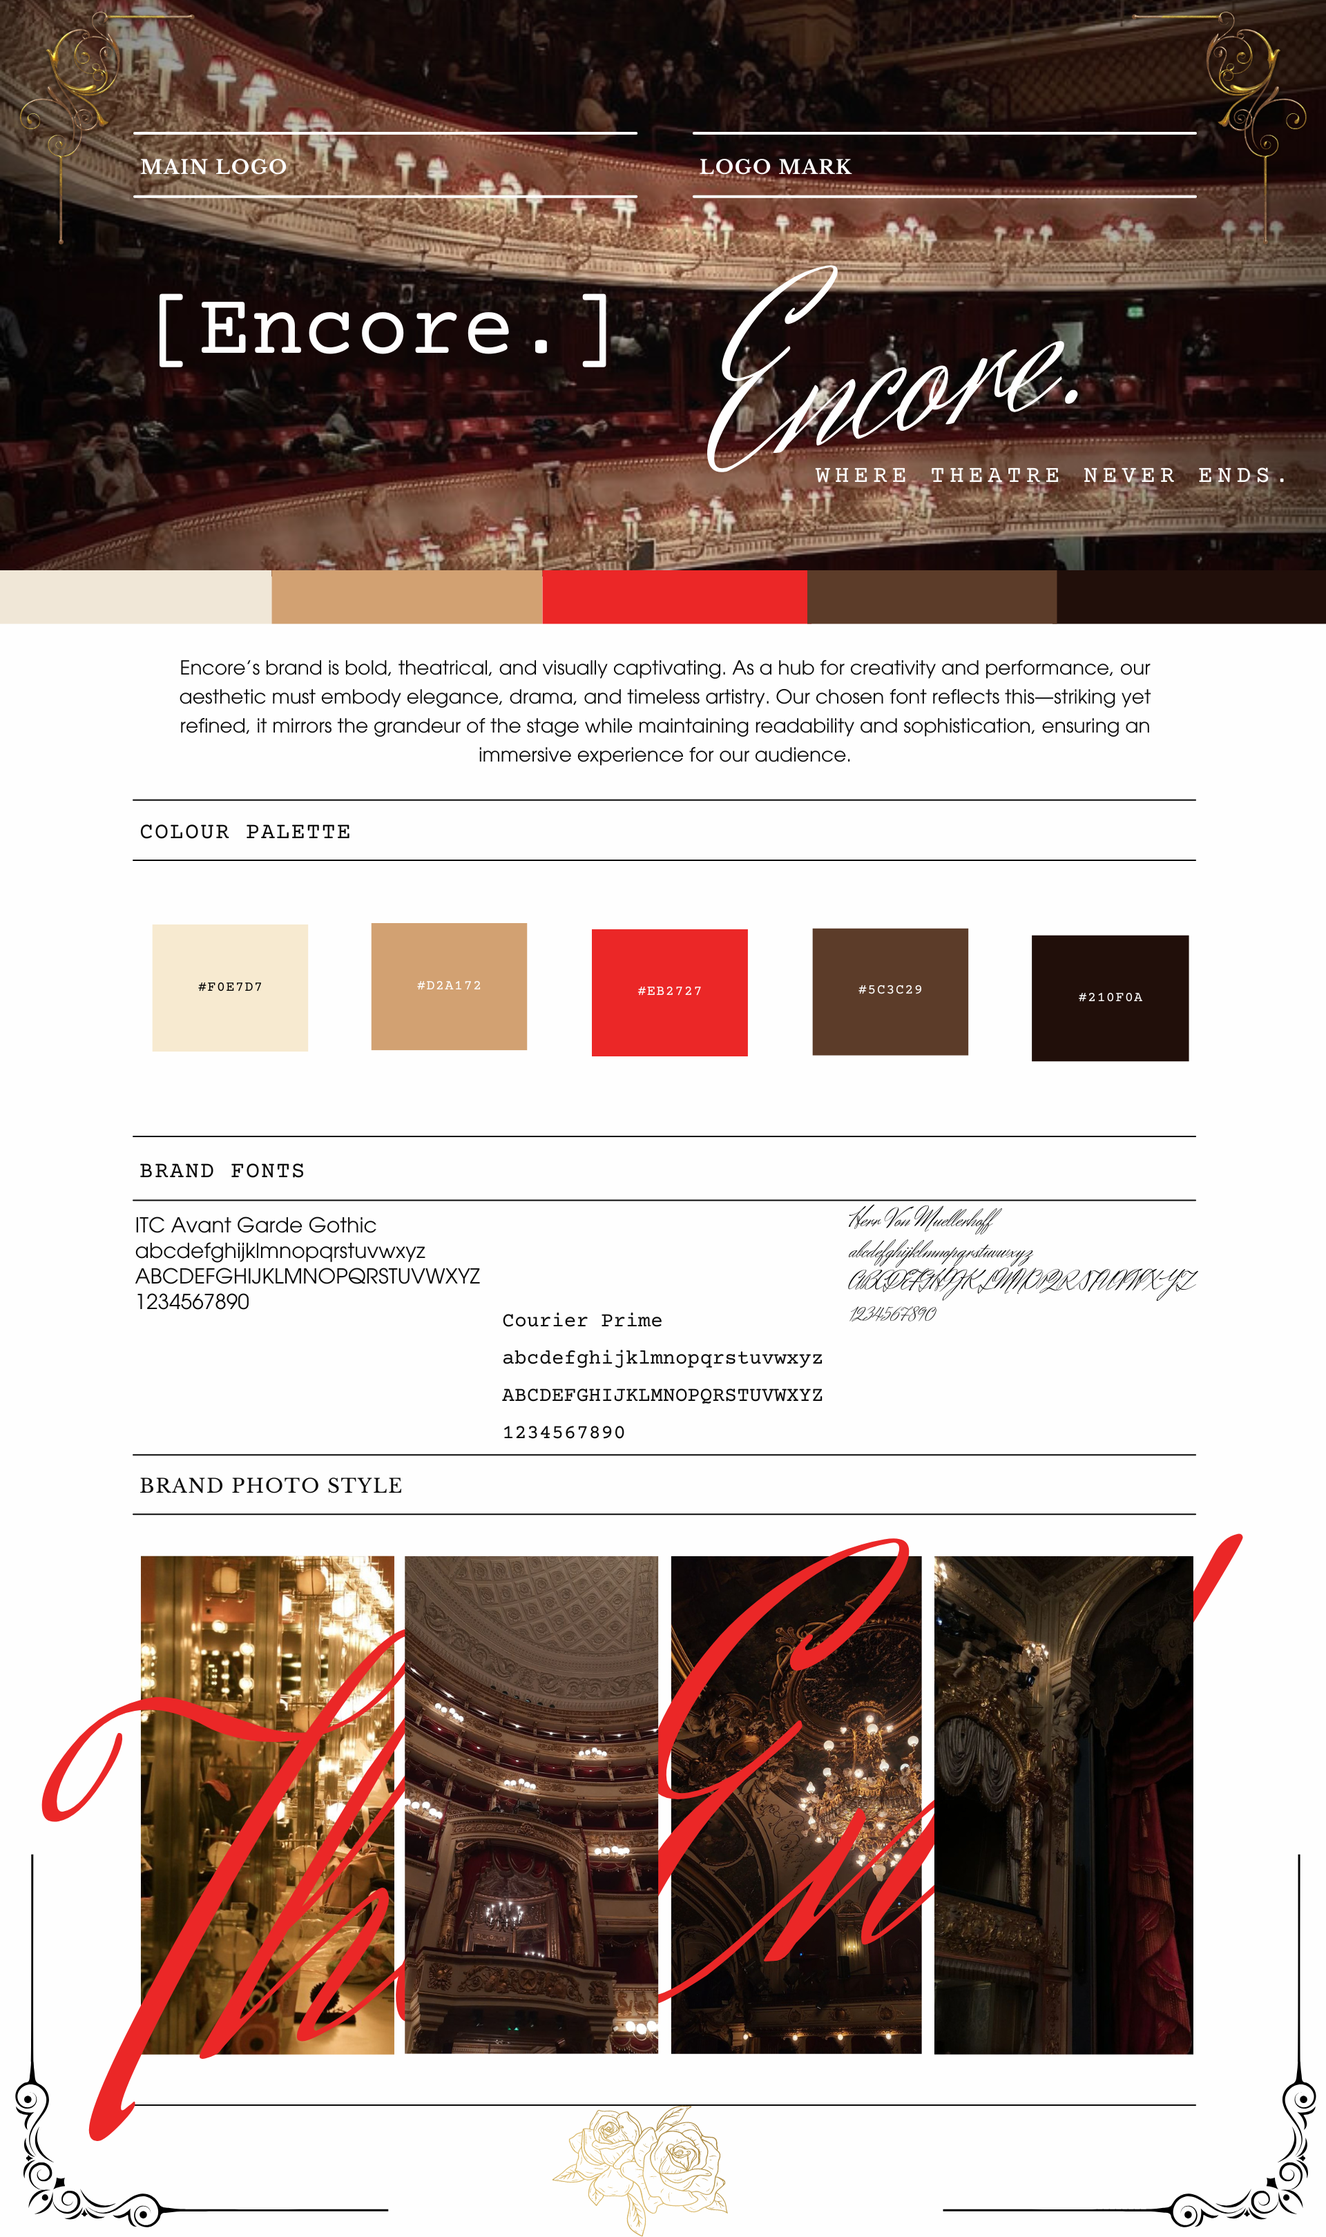
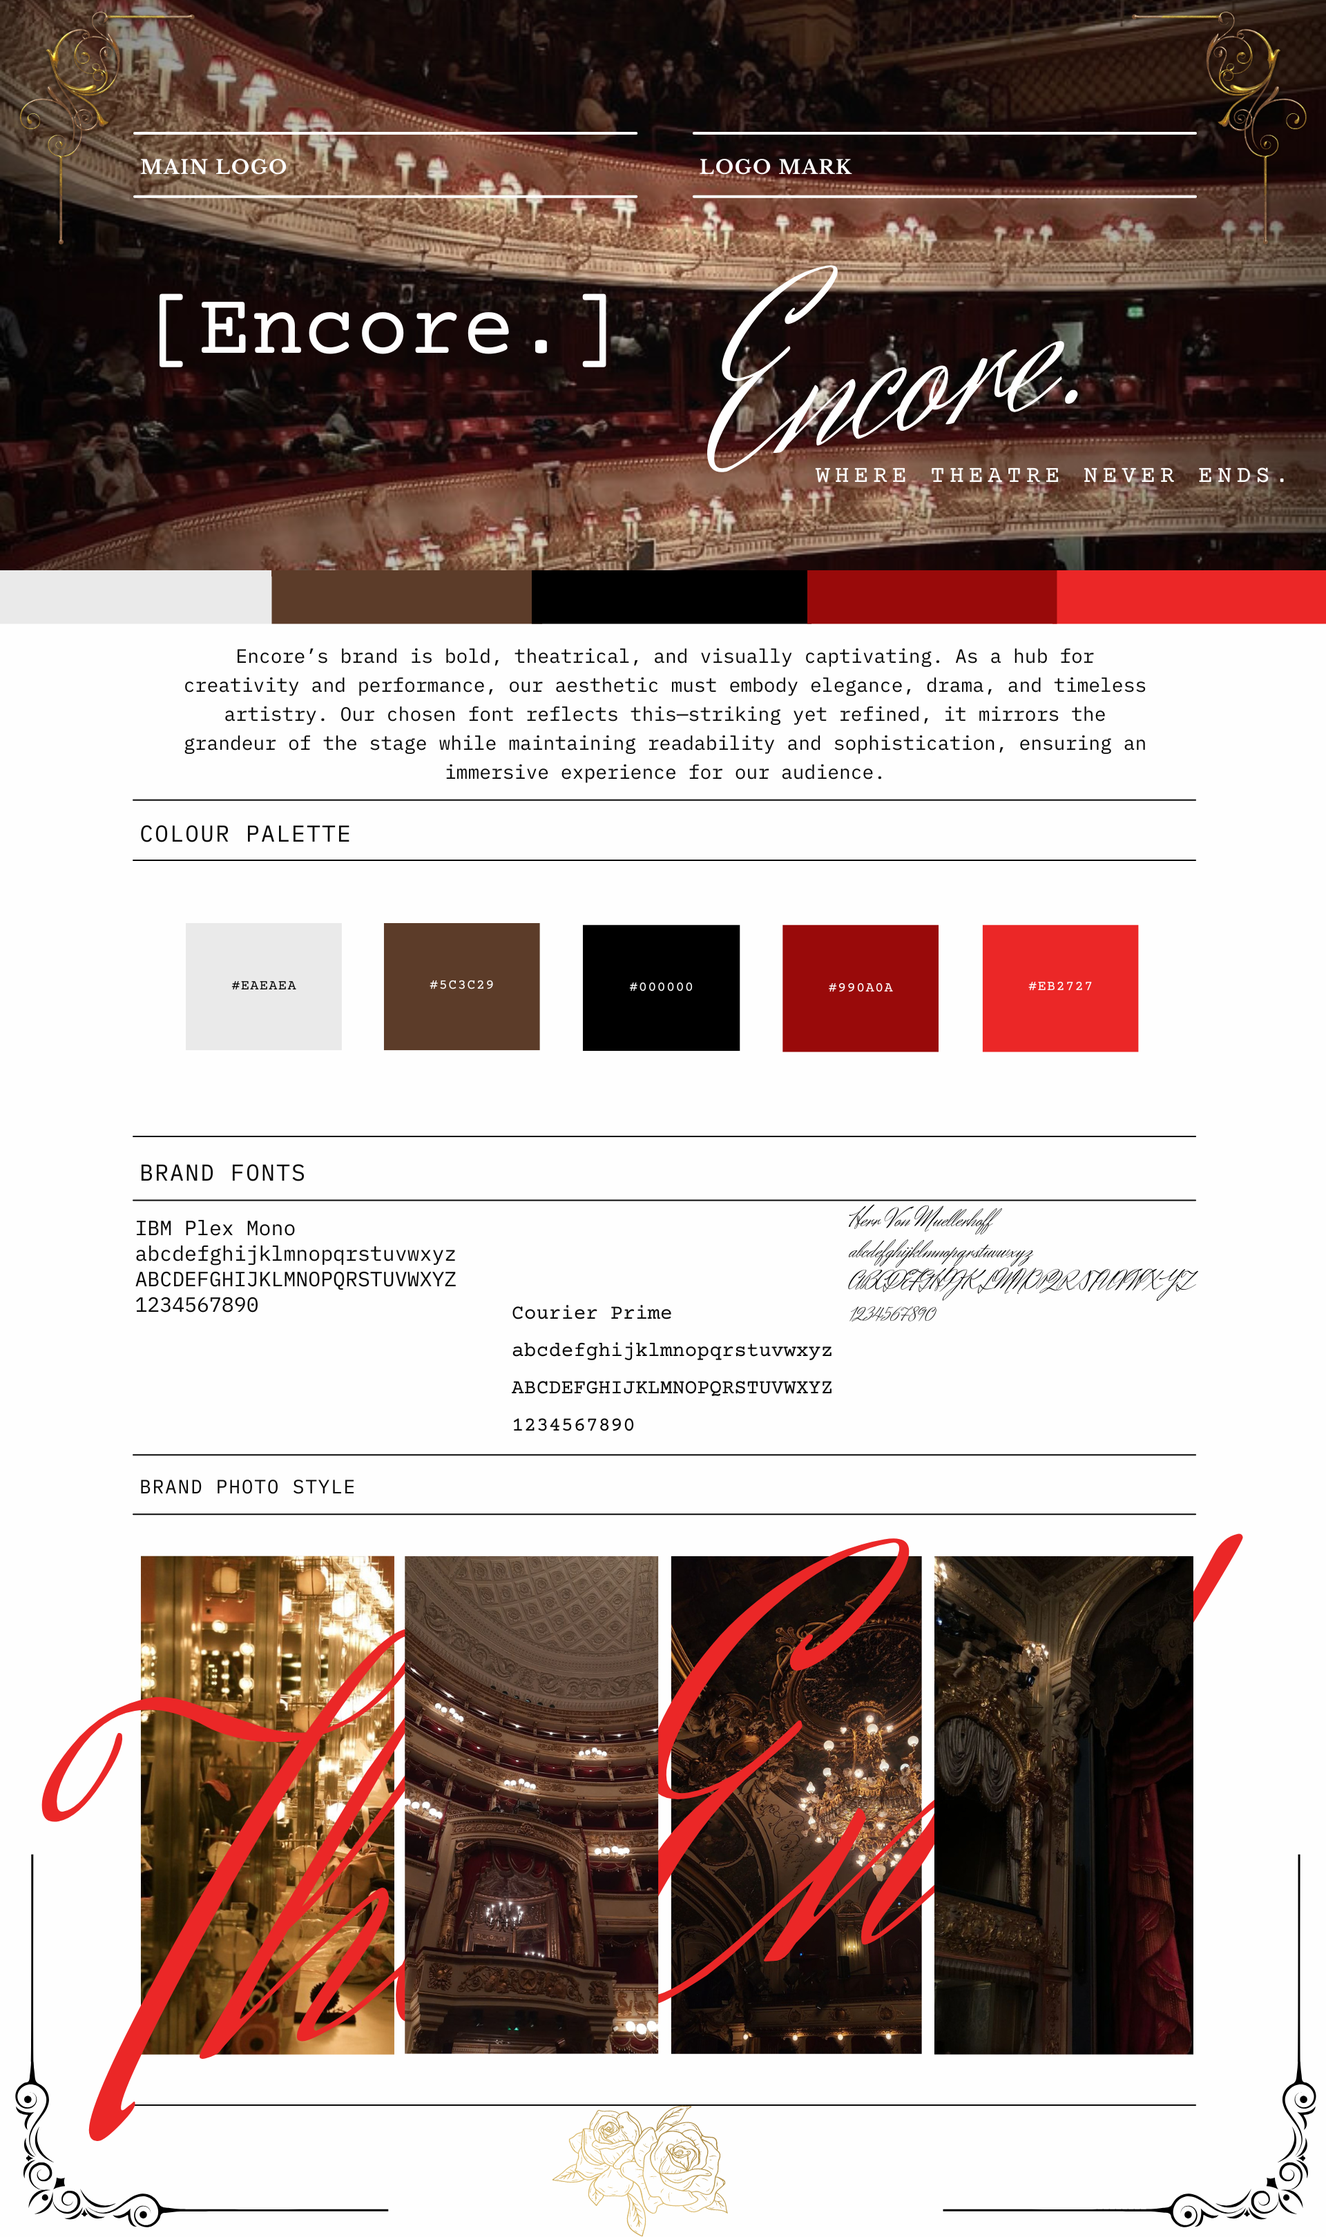
at home edits

diff --git a/corporate.html b/corporate.html
@@ -195,7 +195,7 @@
                           <p>“Encore” is that moment where the passion of life perforamce is captured. They need just one more song, one more scene, one more moment. And that is exactly what we are trying to bring to our site. It's a space for people who want more, not just shows but stories, drama and more of everything. Naming the site “Encore” reflects this ongoing engagement that we are after. It's a call for more performances, even when after the stage goes dark. </p>
                           <h4 id="content-2" class="mt-2">Brand Logo</h4>
                           <img src="images/[Encore.].jpg" width="500" height="700" alt="">
-                          <p> Our logo is styled simply and intentionally in Courier Prime. This is because it gived of that trending vintage look of a classic typewriter font, which is seen in scripts for screenplays. This simplicity reflects our brands values of open information and easy access for anyone. It's a timeless font that is both classic and comforting.</p>
+                          <p> Our logo is styled simply and intentionally in Courier Prime. This is because it gives of that trending vintage look of a classic typewriter font, which is seen in scripts for screenplays. This simplicity reflects our brands values of open information and easy access for anyone. It's a timeless font that is both classic and comforting to the eye.</p>
                           <!-- End Content, start Production -->
                               <h4 id="content-3" class="mt-2">Brand Vision</h4>
                           <p> text bla bla</p>
@@ -210,29 +210,34 @@
                                 <li>
                             Colour Palette 
                                     <li>
-                                      <span class="border border-secondary rounded px-2 me-1" style="background-color: #f0e7d7"></span>
-                                      #202020
-                                      <em>The colour black was the most mentioned in our Problem Interviews as a representative colour for rock music. However, we chose not to use pure black, but rather a shade of black that keeps the design bold but it’s easier for the eye and more readable.</em>
+                                      <br>
+                                      <span class="border border-secondary rounded px-2 me-1" style="background-color: #eaeaea"></span>
+                                      #eaeaea:
+                                      <em>I started with this soft gray as my primary background color. Pure white felt too stark and sterile, but this shade adds a bit of warmth and subtlety without stealing the spotlight from the bolder colors. It gives the content room to breathe and helps everything else stand out more clearly.</em>
                                     </li>
+                                    <br>
                                     <li>
-                                      <span class="border border-secondary rounded px-2 me-1" style="background-color: #d2a172;"></span>
-                                      #C3252F
-                                      <em>Red was the second most mentioned colour by our target audience and it represents energy, passion and excitement, which also matches with how people described the rock community and what we want to associate our brand with.</em>
-                                    </li>
-                                 <li>
-                                      <span class="border border-secondary rounded px-2 me-1" style="background-color: #eb2727"></span>
-                                      #272C7E
-                                      <em>Blue signifies trust and dependability, values that we want people to feel through our product, and we chose a shade of dark blue as it creates a bold design. </em>
-                                    </li>
-                                <li>
                                       <span class="border border-secondary rounded px-2 me-1" style="background-color: #5c3c29"></span>
-                                      #FDD838
-                                      <em>Yellow represents joy and promotes fun, which is also what we want to make people feel through our events. Moreover, it is another one of the mentioned colours by our target audience and we used it to create a bold contrast with the red and blue shades.</em>
+                                      #5c3c29:
+                                      <em>This brown adds depth and a grounded feel to the design. I liked using it for shadow borders, or background areas where I wanted contrast but didn’t want to jump straight to black. It’s a nice in-between that keeps things cohesive, especially alongside the reds. Makes the white and greys pop out.</em>
                                     </li>
+                                    <br>
+                                 <li>
+                                      <span class="border border-secondary rounded px-2 me-1" style="background-color: #000000"></span>
+                                      #000000:
+                                      <em>Black is classic and powerful, so I reserved it for elements that needed serious impact—like headlines, important buttons, and bold visual anchors. It gives the whole design a strong foundation and adds a touch of theatrical drama, which ties perfectly into the theme of the site.</em>
+                                    </li>
+                                    <br>
                                 <li>
-                                      <span class="border border-secondary rounded px-2 me-1" style="border-color: #210f0a"></span>
-                                      #717276:
-                                      <em>As we already had 3 bold colors, we chose to also have grey as another neutral color in order to create a balance to the overall visual composition of the website.</em>
+                                      <span class="border border-secondary rounded px-2 me-1" style="background-color: #990a0a"></span>
+                                      #990a0a:
+                                      <em>This is the color that really captures the essence of theatre for us. It’s rich and intense, like red velvet curtains or stage lighting. I use it for things like text highlights and most of the important messages we try to highlight for the user, like in the FAQ.</em>
+                                    </li>
+                                    <br>
+                                <li>
+                                      <span class="border border-secondary rounded px-2 me-1" style="border-color: #eb2727"></span>
+                                      eb2727:
+                                      <em>To energize the site and draw attention to key areas, I brought in this brighter red. It’s perfect for call-to-action buttons or anything I want visitors to notice immediately. It adds that spark of excitement, while still fitting in with the rest of the palette.</em>
                                     </li> 
                           <br>
                                 

diff --git a/css/style.css b/css/style.css
@@ -98,7 +98,7 @@
      line-height: 24px;
 }
  a {
-     color: #222222;
+     color: #ffffff;
      text-decoration: none;
      outline: none !important;
 }
@@ -360,12 +360,12 @@
      margin-left: 0;
 }
  .menu-area-main li:hover a, .menu-area-main li:focus a {
-     color: #fff;
+     color: #eb2727;
 }
  .menu-area-main li.active a {
      color: #fff;
      background: #000;
-     box-shadow: #9d9d9d66 0px 0px 56px 26px;
+     box-shadow: transparent
 }
  .right_cart_section {
      float: right;
@@ -860,7 +860,7 @@
      font-size: 16px;
      display: block;
      font-weight: 500;
-     color: #555454;
+     color: #fff;
      text-transform: uppercase;
      margin: 0px 15px;
 }
@@ -1444,7 +1444,7 @@
 /** music-box **/
  .music-box {
      padding: 90px 0px;
-     background: #f0e7d7;
+     background: #eaeaea;
 }
  .music-box .for-box {
      padding: 0px 20px;
@@ -1522,7 +1522,7 @@
 /** Lastestnews **/
  .Lastestnews {
      padding:90px 0px;
-     background: #3e0d0d;
+     background: #eaeaea;
 }
  .Lastestnews .titlepage {
      text-align: center;
@@ -1542,7 +1542,7 @@
 }
  .Lastestnews .news-box {
      background:#fff;
-     box-shadow: #ddd 0px 0px 8px 4px;
+     box-shadow: #5c3c29 0px 0px 8px 4px;
 }
  .Lastestnews .news-box figure {
      margin: 0;
@@ -1915,7 +1915,7 @@
 }
 * {box-sizing: border-box;}
 ul {list-style-type: none;}
-body {font-family: Verdana, sans-serif;}
+body {font-family: 'IBM Plex Mono';}
 
 .courier-prime-regular {
     font-family: "Courier Prime", monospace;
@@ -1933,7 +1933,6 @@ body {font-family: Verdana, sans-serif;}
     h4 {
         font-size: 30px;
       }
-<<<<<<< HEAD
       * {
         box-sizing: border-box;
       }
@@ -1998,13 +1997,12 @@ body {font-family: Verdana, sans-serif;}
           width: 100%;
         }
       }
-=======
 
 .accordion {
-  background-color: #eee;
-  color: #444;
+  background-color: #990a0a;
+  color: #fff;
   cursor: pointer;
-  padding: 18px;
+  padding: 30px;
   width: 100%;
   border: none;
   text-align: left;
@@ -2014,12 +2012,12 @@ body {font-family: Verdana, sans-serif;}
 }
 
 .accordion:hover {
-  background-color: #ccc;
+  background-color: #490101;
 }
 
 .accordion:after {
   content: '\002B';
-  color: #777;
+  color: #640404;
   font-weight: bold;
   float: right;
   margin-left: 5px;
@@ -2042,8 +2040,7 @@ body {font-family: Verdana, sans-serif;}
     max-width: 600px;
     margin: 0 auto;
   }
-<<<<<<< HEAD
-
-=======
->>>>>>> ecfcd88cd4628416e9251d887b6c3c1d3233aaf8
->>>>>>> 3adaba8ca8b0002d0e176865650bc5aec90c2c63
+ 
+.general-text {
+      font-family: 'IBM Plex Mono';font-size: 22px;
+  }

diff --git a/index.html b/index.html
@@ -36,7 +36,7 @@
 <body class="main-layout">
     <style>
         body {
-            background-color: #3e0d0d;
+            background-color: #eaeaea;
         }
         
     </style>
@@ -109,7 +109,7 @@
                 <div class="col-md-12">
                     <div class="titlepage">
                         <h2>Small Stages. Big Stories. <br> All in one place.</h2>
-                        <span>Encore is all about giving every show, big or small, the chance to be seen and appreciated. <br>  We believe awesome theatre can come from anywhere, and it should be available to everyone. <br> By making it easier to access, staying transparent, and done with a lot of passion. <br> Encore brings fresh stories to life for anyone who wants to experience them.</span>
+                        <span>Encore is all about giving every show, big or small, the chance to be seen and appreciated. <br>  We believe awesome theater can come from anywhere, and it should be available to everyone. <br> By making it easier to access, staying transparent, and done with a lot of passion. <br> Encore brings fresh stories to life for anyone who wants to experience them.</span>
                     </div>
                 </div>
             </div>
@@ -143,7 +143,7 @@
             <div class="row">
                 <div class="col-md-12">
                     <div class="titlepage">
-                        <h2>Latest Theatre News</h2>
+                        <h2>Latest Theater News</h2>
                         <span>This news section highlights recent, fictional developments in the world of theatre to entertain <br> and spark interest in current trends and stories on stage.</span>
                     </div>
                 </div>
@@ -172,7 +172,7 @@
                         <figure><img src="images/theatregirlsocial.png" alt="img" /></figure>
                         <h3>Social Media Shakespeare</h3>
                         <span> April 20th</span><span> (4) Comments</span>
-                        <p>A TikTok theatre collective called @BardBabes is bringing Shakespeare to Gen Z in bite sized, viral form. Their stylized 60 second videos of famous monologues have racked up millions of views, mixing...</p>
+                        <p>A TikTok theater collective called @BardBabes is bringing Shakespeare to Gen Z in bite sized, viral form. Their stylized 60 second videos of famous monologues have racked up millions of views, mixing...</p>
                         <button class="submit-btn">Read more</button>
                     </div>
                 </div>

diff --git a/about.html b/about.html
@@ -33,6 +33,12 @@
 <!-- body -->
 
 <body class="main-layout about-page">
+    <style>
+        body {
+            background-color: #eaeaea;
+        }
+        
+    </style>
     <!-- header -->
     <header>
         <!-- header inner -->
@@ -134,11 +140,11 @@
             <div class="col-xl-6 col-lg-12 col-md-12 col-sm-12 padding">
                 <div class="text-box">
                     <div class="box">
+                        <br>
                         <h3>Our message</h3>
-                        <p>Encore is more than just a ticketing platform—it’s a gateway to the magic of live theater. 
-
-                            <br> We bridge the gap between audiences and performances, ensuring that no one misses out on the thrill of a great show. 
-                            <br> Whether you’re searching for last-minute seats, hidden theatrical gems, or real-time updates, Encore brings the stage closer to you. Our mission is simple: to make theater more accessible, transparent, and exciting for everyone.</p>
+                        <p>Encore is more than just a ticketing platform. It’s a gateway to the magic of live theater. <br>  
+                            We bridge the gap between audiences and performances, ensuring that no one misses out <br>  on the thrill of a great show. 
+                            <br> Whether you’re searching for last-minute seats, hidden theatrical gems, <br>  or real-time updates, Encore brings the stage closer to you. <br> Our mission is simple: to make theater more accessible, transparent, and exciting for everyone.</p>
 
                     </div>
                 </div>
@@ -162,9 +168,7 @@
                             </ul>
 
                             <ul class="contant_icon">
-                                <li><img src="icon/fb.png" alt="icon" /></li>
-                                <li><img src="icon/tw.png" alt="icon" /></li>
-                                <li><img src="icon/lin(2).png" alt="icon" /></li>
+                                <li><img src="icon/tiktok.png" alt="icon" /></li>
                                 <li><img src="icon/instagram.png" alt="icon" /></li>
                             </ul>
                         </div>

diff --git a/faq.html b/faq.html
@@ -73,6 +73,12 @@
             </div>
             <!-- end header inner -->
     </header>
+    <style>
+        body {
+            background-color: #eaeaea;
+        }
+        
+    </style>
     <!-- end header -->
 
     <div class="contactbg">
@@ -86,13 +92,11 @@
             </div>
         </div>
     </div>
-            </head>
-            <body>
-        <div class="middleac">
-            <h2></h2>
-            <p>Click on the buttons to open the collapsible content.</p>
             
-            <button class="accordion">What is encore?</button>
+        
+        <div class="middleac">
+            
+            <button class="accordion">What is Encore?</button>
             <div class="panel">
               <p>Encore is more than just a ticketing platform—it’s a gateway to the magic of live theater. We bridge the gap between audiences and performances, ensuring that no one misses out on the thrill of a great show. Whether you’re searching for last-minute seats, hidden theatrical gems, or real-time updates, Encore brings the stage closer to you. Our mission is simple: to make theater more accessible, transparent, and exciting for everyone.</p>
             </div>
@@ -141,9 +145,6 @@
             <div class="panel">
               <p>No, unfortunately not.</p>
             </div>
-			
-			
-
         </div>   
             <script>
             var acc = document.getElementsByClassName("accordion");
@@ -162,7 +163,7 @@
             }
             </script>
             
-            </body>
+        
     </div>
     <div class="container">
         <div class="row">
@@ -173,6 +174,7 @@
 			            <h2>Contact</h2>	
 						<h3>If you have questions that have not been already answered or other concerns, please fill out the form!</h3>
                     </div>
+                    <br>
                     <form>
                         <div class="row">
                             <div class="col-sm-12">
